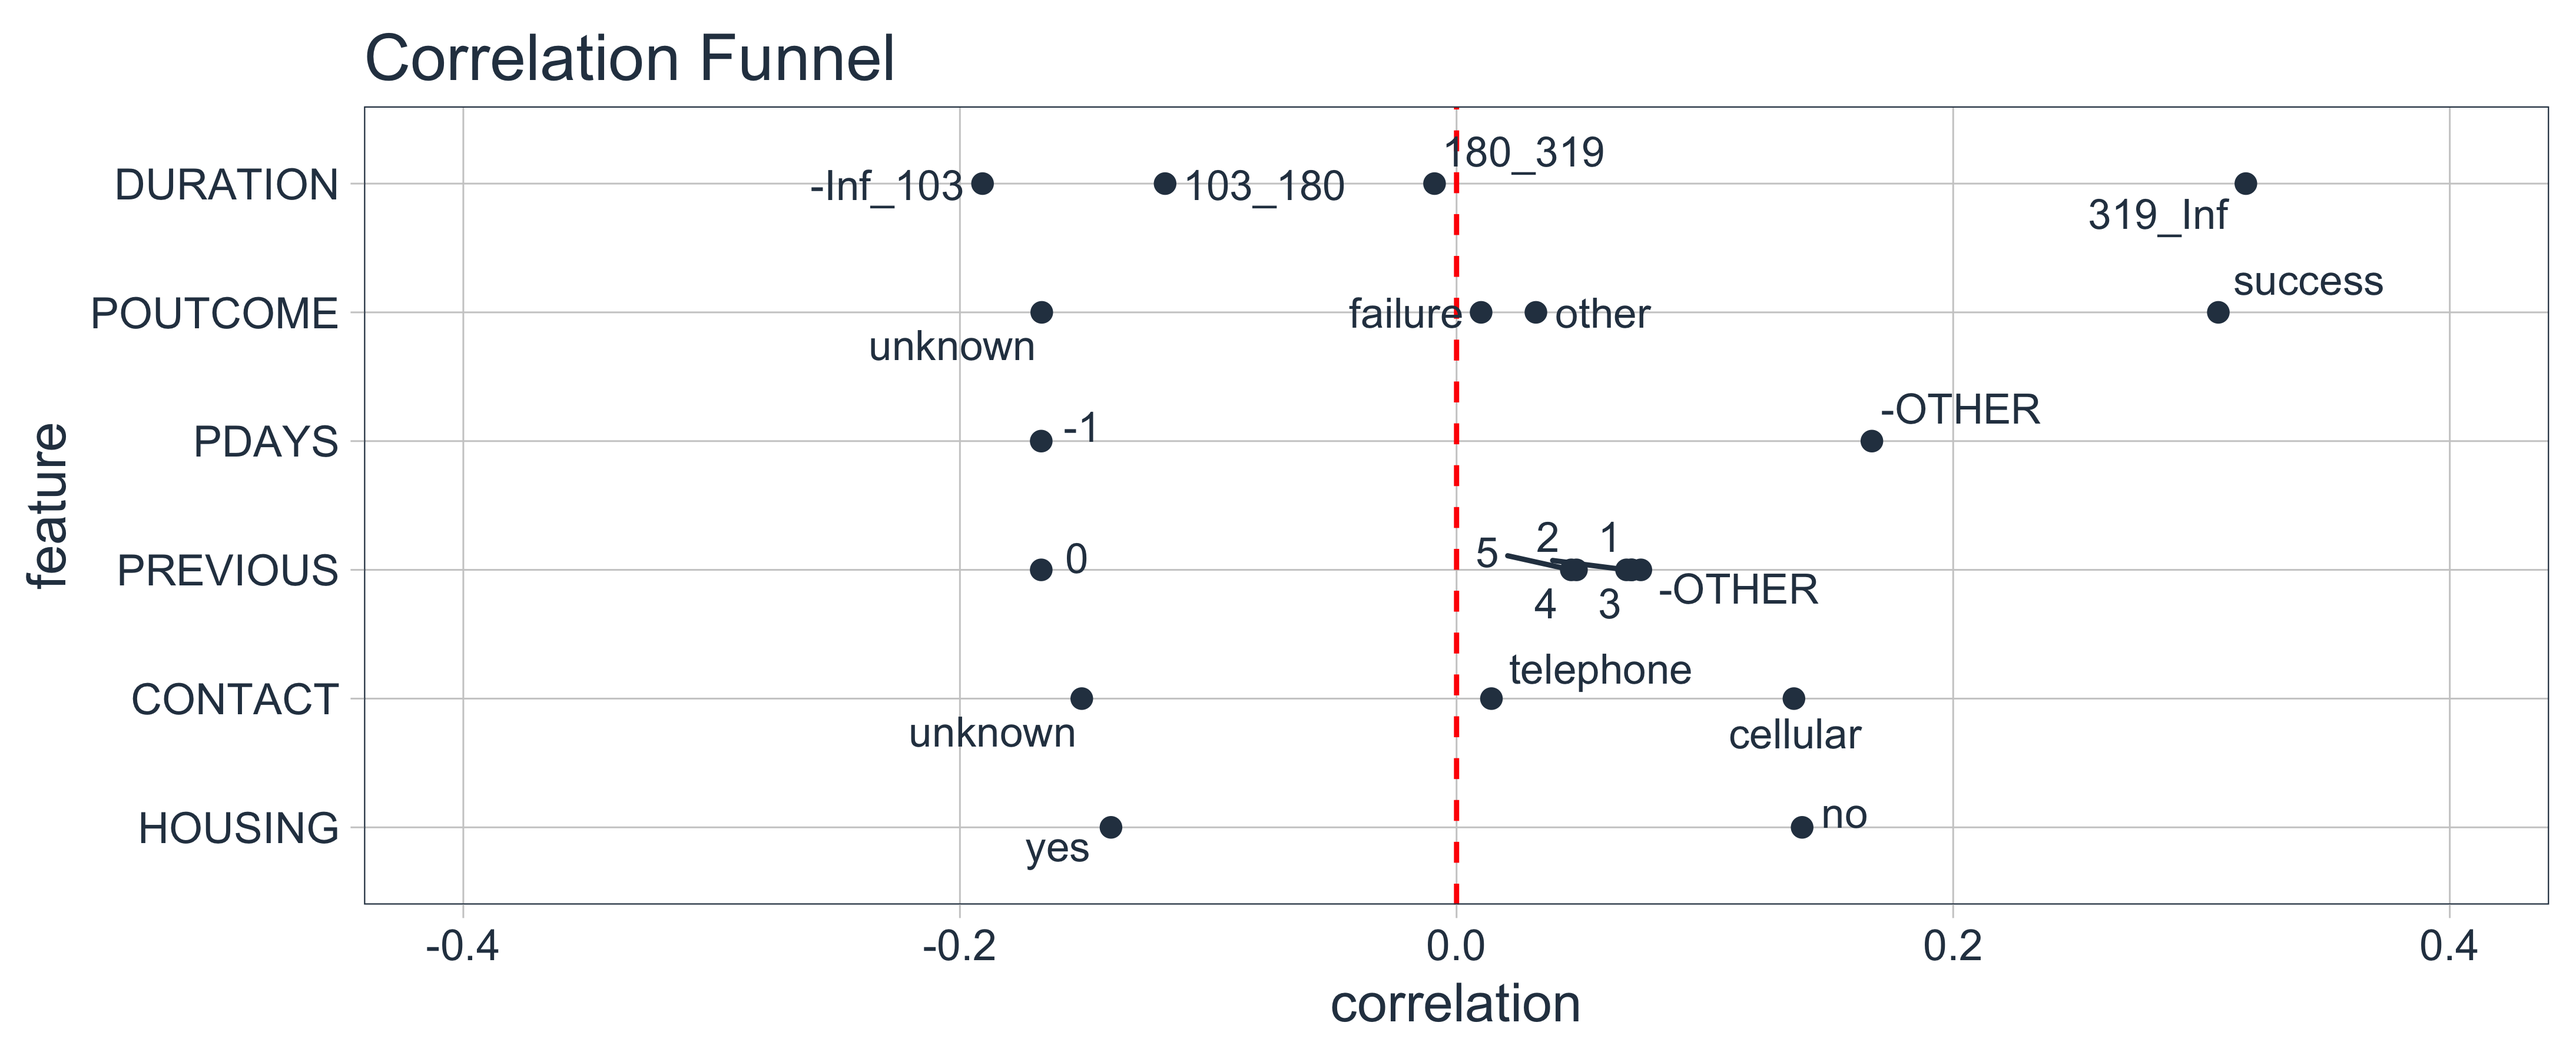
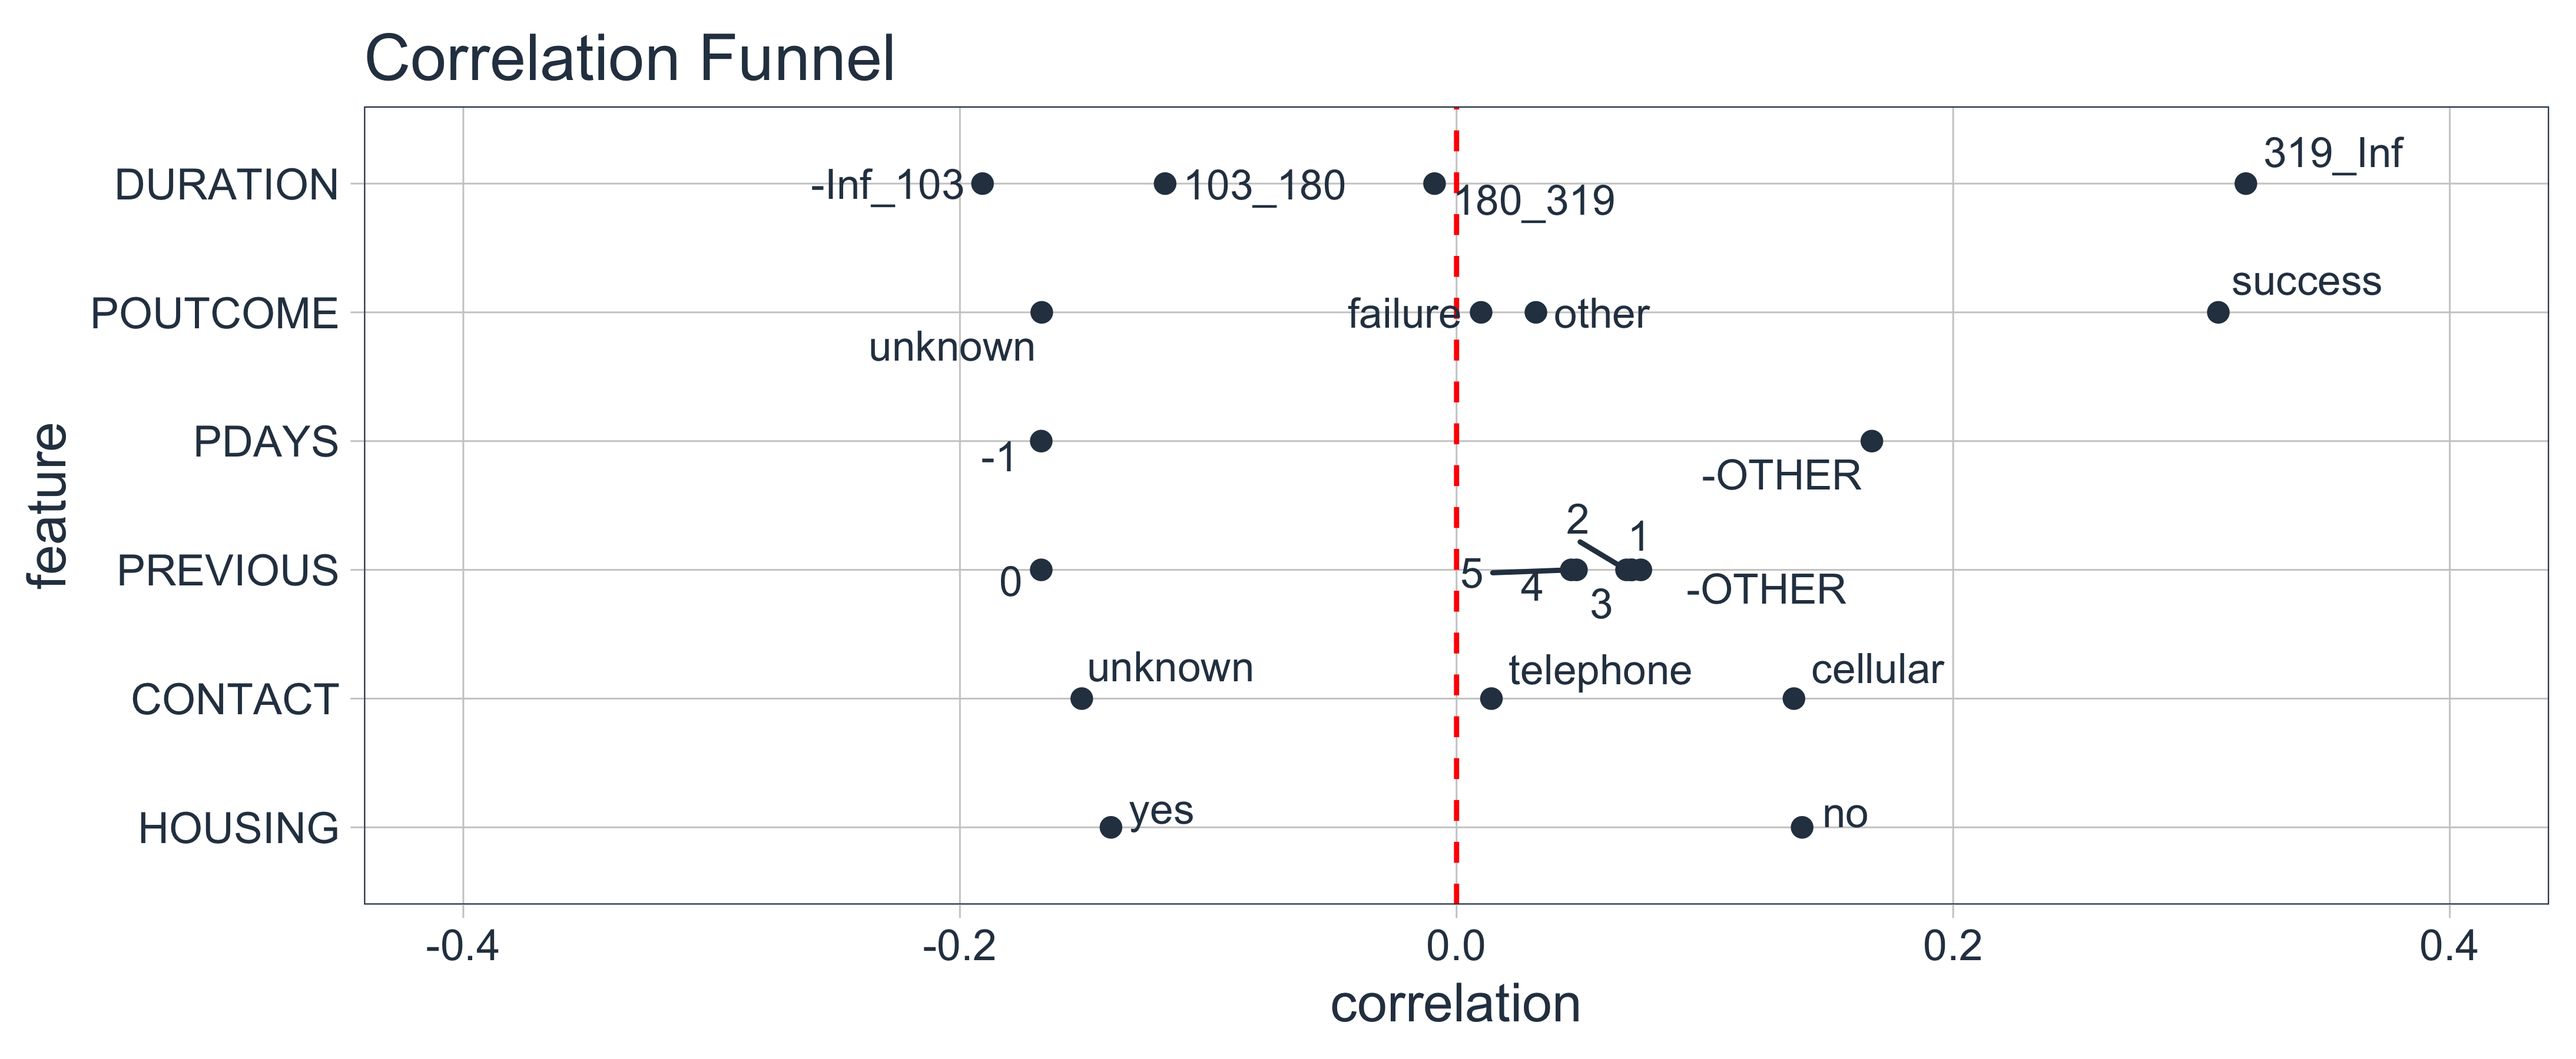
update readme

diff --git a/README.md b/README.md
@@ -162,7 +162,7 @@ marketing_campaign_binarized_tbl %>% glimpse()
 #> $ JOB__student         <dbl> 0, 0, 0, 0, 0, 0, 0, 0, 0, 0, 0, 0, 0, 0, 0…
 #> $ JOB__technician      <dbl> 0, 1, 0, 0, 0, 0, 0, 0, 0, 1, 0, 0, 1, 1, 0…
 #> $ JOB__unemployed      <dbl> 0, 0, 0, 0, 0, 0, 0, 0, 0, 0, 0, 0, 0, 0, 0…
-#> $ JOB__OTHER           <dbl> 0, 0, 0, 0, 1, 0, 0, 0, 0, 0, 0, 0, 0, 0, 0…
+#> $ `JOB__-OTHER`        <dbl> 0, 0, 0, 0, 1, 0, 0, 0, 0, 0, 0, 0, 0, 0, 0…
 #> $ MARITAL__divorced    <dbl> 0, 0, 0, 0, 0, 0, 0, 1, 0, 0, 1, 0, 0, 0, 0…
 #> $ MARITAL__married     <dbl> 1, 0, 1, 1, 0, 1, 0, 0, 1, 0, 0, 0, 1, 1, 1…
 #> $ MARITAL__single      <dbl> 0, 1, 0, 0, 1, 0, 1, 0, 0, 1, 0, 1, 0, 0, 0…
@@ -198,7 +198,7 @@ marketing_campaign_binarized_tbl %>% glimpse()
 #> $ MONTH__nov           <dbl> 0, 0, 0, 0, 0, 0, 0, 0, 0, 0, 0, 0, 0, 0, 0…
 #> $ MONTH__oct           <dbl> 0, 0, 0, 0, 0, 0, 0, 0, 0, 0, 0, 0, 0, 0, 0…
 #> $ MONTH__sep           <dbl> 0, 0, 0, 0, 0, 0, 0, 0, 0, 0, 0, 0, 0, 0, 0…
-#> $ MONTH__OTHER         <dbl> 0, 0, 0, 0, 0, 0, 0, 0, 0, 0, 0, 0, 0, 0, 0…
+#> $ `MONTH__-OTHER`      <dbl> 0, 0, 0, 0, 0, 0, 0, 0, 0, 0, 0, 0, 0, 0, 0…
 #> $ `DURATION__-Inf_103` <dbl> 0, 0, 1, 1, 0, 0, 0, 0, 1, 1, 0, 0, 0, 1, 0…
 #> $ DURATION__103_180    <dbl> 0, 1, 0, 0, 0, 1, 0, 0, 0, 0, 0, 1, 0, 0, 1…
 #> $ DURATION__180_319    <dbl> 1, 0, 0, 0, 1, 0, 1, 0, 0, 0, 1, 0, 0, 0, 0…
@@ -207,14 +207,14 @@ marketing_campaign_binarized_tbl %>% glimpse()
 #> $ CAMPAIGN__2_3        <dbl> 0, 0, 0, 0, 0, 0, 0, 0, 0, 0, 0, 0, 0, 0, 0…
 #> $ CAMPAIGN__3_Inf      <dbl> 0, 0, 0, 0, 0, 0, 0, 0, 0, 0, 0, 0, 0, 0, 0…
 #> $ `PDAYS__-1`          <dbl> 1, 1, 1, 1, 1, 1, 1, 1, 1, 1, 1, 1, 1, 1, 1…
-#> $ PDAYS__OTHER         <dbl> 0, 0, 0, 0, 0, 0, 0, 0, 0, 0, 0, 0, 0, 0, 0…
+#> $ `PDAYS__-OTHER`      <dbl> 0, 0, 0, 0, 0, 0, 0, 0, 0, 0, 0, 0, 0, 0, 0…
 #> $ PREVIOUS__0          <dbl> 1, 1, 1, 1, 1, 1, 1, 1, 1, 1, 1, 1, 1, 1, 1…
 #> $ PREVIOUS__1          <dbl> 0, 0, 0, 0, 0, 0, 0, 0, 0, 0, 0, 0, 0, 0, 0…
 #> $ PREVIOUS__2          <dbl> 0, 0, 0, 0, 0, 0, 0, 0, 0, 0, 0, 0, 0, 0, 0…
 #> $ PREVIOUS__3          <dbl> 0, 0, 0, 0, 0, 0, 0, 0, 0, 0, 0, 0, 0, 0, 0…
 #> $ PREVIOUS__4          <dbl> 0, 0, 0, 0, 0, 0, 0, 0, 0, 0, 0, 0, 0, 0, 0…
 #> $ PREVIOUS__5          <dbl> 0, 0, 0, 0, 0, 0, 0, 0, 0, 0, 0, 0, 0, 0, 0…
-#> $ PREVIOUS__OTHER      <dbl> 0, 0, 0, 0, 0, 0, 0, 0, 0, 0, 0, 0, 0, 0, 0…
+#> $ `PREVIOUS__-OTHER`   <dbl> 0, 0, 0, 0, 0, 0, 0, 0, 0, 0, 0, 0, 0, 0, 0…
 #> $ POUTCOME__failure    <dbl> 0, 0, 0, 0, 0, 0, 0, 0, 0, 0, 0, 0, 0, 0, 0…
 #> $ POUTCOME__other      <dbl> 0, 0, 0, 0, 0, 0, 0, 0, 0, 0, 0, 0, 0, 0, 0…
 #> $ POUTCOME__success    <dbl> 0, 0, 0, 0, 0, 0, 0, 0, 0, 0, 0, 0, 0, 0, 0…
@@ -245,7 +245,7 @@ marketing_campaign_correlated_tbl
 #>  3 DURATION     319_Inf        0.318
 #>  4 POUTCOME     success        0.307
 #>  5 DURATION     -Inf_103      -0.191
-#>  6 PDAYS        OTHER          0.167
+#>  6 PDAYS        -OTHER         0.167
 #>  7 PDAYS        -1            -0.167
 #>  8 PREVIOUS     0             -0.167
 #>  9 POUTCOME     unknown       -0.167
@@ -324,7 +324,7 @@ issues (cleanliness) and get data preprared for Correlation Analysis\!
     is one of my all-time favorites for visualizing many features
     quickly.
 
-## Usage in the Real-World
+## Using Correlation Funnel? You Might Be Interested in Applied Business Education
 
 [***Business Science***](https://www.business-science.io/) teaches
 students how to apply data science for business. The entire curriculum
@@ -333,7 +333,7 @@ Analysis* is one of the many techniques that we teach in our curriculum.
 **Learn from our data science application experience with real-world
 business projects.**
 
-## Learn from Real-World Business Projects
+### Learn from Real-World Business Projects
 
 Students learn by solving real world projects using our repeatable
 project-management framework along with cutting-edge tools like the
